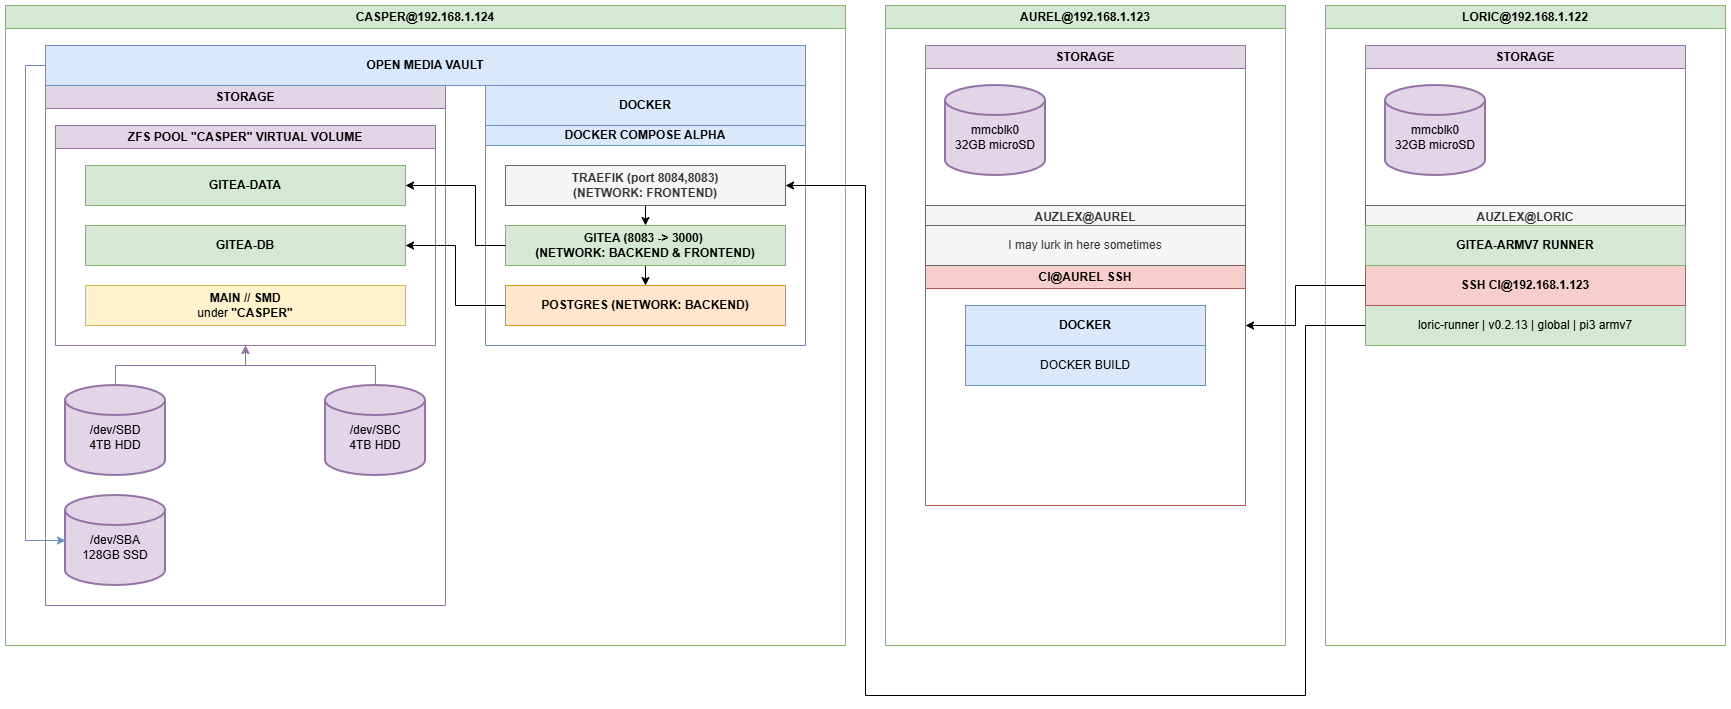
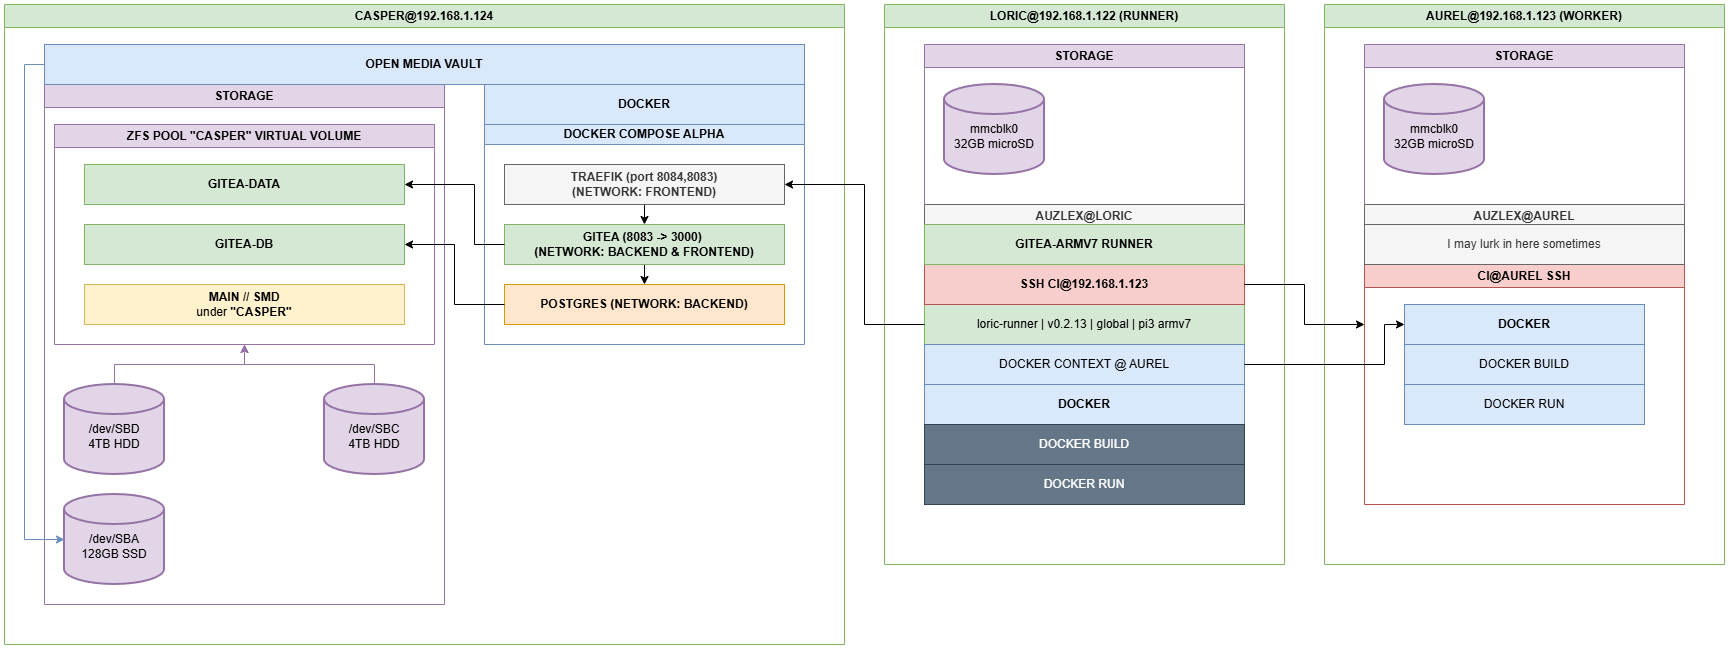
updated diagram, updated docs on loric and aurel

diff --git a/docs/loric.md b/docs/loric.md
@@ -10,7 +10,7 @@
 
 ### Purpose
 **LORIC** acts as the dedicated **runner node** within the home-lab CI/CD infrastructure.
-It is responsible for polling the Gitea server on CASPER, orchestrating workflow execution,
+It is responsible for polling the Gitea server on **CASPER**, orchestrating workflow execution,
 and dispatching jobs to worker nodes like AUREL while maintaining workflow scheduling and coordination.
 
 ### System Information
@@ -38,7 +38,7 @@ and dispatching jobs to worker nodes like AUREL while maintaining workflow sched
 auzlex@LORIC:~ $ sudo apt update && sudo apt install -y docker.io docker-compose && sudo systemctl enable docker --now
 ```
 
-* Docker is used to run any containerized jobs dispatched from **AUREL** or directly from workflows.
+* Docker is used to run any containerized jobs dispatched from **CASPER** which is given via Gitea actions upon this runner node.
 
 ### 2. Create Runner Directory
 
@@ -65,7 +65,7 @@ auzlex@LORIC:~/gitea-runner $ chmod +x act_runner
 ### 5. Fix DNS Resolution for CASPER
 
 * Edit `/etc/hosts` to allow LORIC to resolve `casper.local`:
-(This one is important because I have gitea working under reverse proxy via traefik so I need `http://casper.local:8083`)
+(This one is important because I have gitea working under reverse proxy via traefik so I need `http://casper.local:8083`).
 
 ```bash
 auzlex@LORIC:~ $ sudo nano /etc/hosts
@@ -79,14 +79,14 @@ auzlex@LORIC:~ $ sudo nano /etc/hosts
 
 ### 6. Register Runner with Gitea
 
-* Obtain the **registration token** from CASPER (Gitea UI: Settings → Actions → Runners → Add Runner)
+* Obtain the **registration token** from CASPER (Gitea UI: Settings → Actions → Runners → Add Runner).
 
 ```bash
 auzlex@LORIC:~/gitea-runner $ ./act_runner register --instance http://casper.local:8083 --token <TOKEN> --name loric-runner --labels pi3,armv7 --no-interactive
 ```
 
-* `<TOKEN>`: token obtained from CASPER
-* `--labels` can be customized for workflow targeting
+* `<TOKEN>`: token obtained from CASPER.
+* `--labels` can be customized for workflow targeting.
 
 ### 7. Start Runner (Manual)
 
@@ -94,7 +94,7 @@ auzlex@LORIC:~/gitea-runner $ ./act_runner register --instance http://casper.loc
 auzlex@LORIC:~/gitea-runner $ ./act_runner daemon
 ```
 
-* Runner will poll CASPER and appear online in Gitea
+* Runner will poll CASPER and appear online in Gitea.
 
 ### 8. Make Runner Persistent with systemd
 
@@ -136,9 +136,11 @@ auzlex@LORIC:~ $ sudo systemctl start gitea-runner
 auzlex@LORIC:~ $ sudo systemctl status gitea-runner
 ```
 
-## Testing The Runner
+## Testing Gitea Runner and worker simple via SSH
 
-We will test running a task on LORIC to `echo "Hello from AUREL!"`
+We will test running a task on **LORIC** to `echo "Hello from AUREL!"`
+
+An SSH has also been setup between **AUREL** and **LORIC** so that **LORIC** can issue commands to the isolated user account called **CI**, at the moment we can manually configure out Gitea workflow runner to issue commands carefully.
 
 ![alt text](resources/image.png)
 In the example image above, you can see the worker is successfully running my gitea workflow test.yml within my CICD-Test repo. The test.yml is to instruct commands under the ssh.
@@ -160,42 +162,64 @@ jobs:
 
 ```
 
-## Building on AUREL
+## Setting Up Docker Context
 
-```yml
-name: Docker Build on AUREL
+These commands will setup docker context for **LORIC**. **LORIC** also has docker installed and running which can perform builds and other tasks, however their role is to simply only handle requests from casper and tell other devices within my setup to do more of the heavy lifting.
 
-on:
-  push:
-    branches:
-      - main
+When a workflow runs:
 
-jobs:
-  docker-build:
-    runs-on: pi3
-    steps:
-      - name: Checkout Code
-        uses: actions/checkout@v3
+1. **CASPER** has a job that **LORIC** runs.
+2. **LORIC** prepares workflow.
+3. Docker commands execute using active context.
+4. Workloads run locally or remotely.
+5. Containers clean up normally after job.
 
-      - name: Build Docker Image Remotely
-        run: |
-          ssh ci@192.168.1.123 '
-            docker build -t ci-test-image .
-            docker run --rm ci-test-image
-          '
+If the runner is busy:
 
+* Jobs queue in Gitea upon **CASPER**
+
+We use this command below to ensure what types of context is available.
+```bash
+docker context ls
 ```
+
+```bash
+NAME      DESCRIPTION                               DOCKER ENDPOINT               ERROR
+aurel *                                             ssh://ci@192.168.1.123        
+default   Current DOCKER_HOST based configuration   unix:///var/run/docker.sock  
+```
+
+Docker contexts can be created with the following command:
+```bash
+docker context create aurel \
+  --docker "host=ssh://ci@192.168.1.123"
+```
+
+Next we tell **LORIC** to use aurel for docker usage.
+
+```bash
+docker context use aurel
+```
+
+After this:
+
+* `docker build` runs on **AUREL**.
+* `docker run` runs on **AUREL**.
+* Images and containers live on **AUREL**.
 
 ## Summary of LORIC Role
 
-* **Gitea Actions Runner:** Polls CASPER for workflows
-* **Dispatches jobs:** Can run Docker jobs locally or target AUREL worker node
-* **Persistent Service:** Runs as systemd service, auto-starts on boot
-* **Labels:** `pi3`, `armv7` (used for targeting specific workflows)
+* **Gitea Actions Runner:** Polls **CASPER** for workflows and receives jobs.
+* **Primary Execution Node:** Executes all workflow steps locally by default.
+* **Docker Orchestrator:** Runs Docker builds on **AUREL** or **LORIC** unless a remote context or SSH is explicitly used.
+* **Persistent Service:** Runs as a systemd service and auto-starts on boot.
+* **Job Scheduling:** Single-runner execution; jobs queue in Gitea on **CASPER** if **LORIC** is busy or offline.
+* **Labels:** `pi3`, `armv7` (used only to select which workflows this runner can accept).
+
 
 ### Notes
 
-* Ensure `/etc/hosts` entry for `casper.local` remains in place for DNS resolution
-* Runner binary located at: `~/gitea-runner/act_runner`
-* Docker must remain installed for workflows that use containerized jobs
-
+* **CASPER** never talks to workers directly; all execution flows through **LORIC**.
+* Ensure `/etc/hosts` entry for `casper.local` remains in place for DNS resolution.
+* Runner binary located at: `~/gitea-runner/act_runner`.
+* Docker must remain installed and updated for workflows that use containerized jobs.

diff --git a/docs/aurel.md b/docs/aurel.md
@@ -70,7 +70,20 @@ and scheduling separate from execution.
 * Runs Docker commands
 * Receives remote jobs via SSH from LORIC
 
-### Setup Steps Verified for Raspberry Pi OS
+## Setup Steps
+**AUREL** was setup using the following steps and instructions:
+
+### 1. Install Docker
+
+```bash
+auzlex@LORIC:~ $ sudo apt update && sudo apt install -y docker.io docker-compose && sudo systemctl enable docker --now
+```
+
+* Docker is used to run any containerized jobs dispatched from **LORIC**.
+
+### 2. Setup SSH For Isolated CI user
+
+This user account will be used to run ssh commands dispatched by **LORIC**. To maintain isolation.
 
 1. Create user with password and set shell (choose a strong password, record it for SSH key setup):
 
@@ -117,17 +130,10 @@ ssh ci@192.168.1.123
 ls -ld /home/ci
 ```
 
-8. Prepare CI workspace ownership:
-
-```bash
-sudo mkdir -p /srv/ci && sudo chown -R ci:ci /srv/ci
-```
-
 ### Notes
 
 * Ensure SSH key is generated for `ci` to allow LORIC to execute jobs without prompting for a password
 * Password must be set initially for key setup
-* Workspace `/srv/ci` should be owned by `ci` for proper job isolation
 * No sudo access is required unless a workflow explicitly needs it
 
 ---
